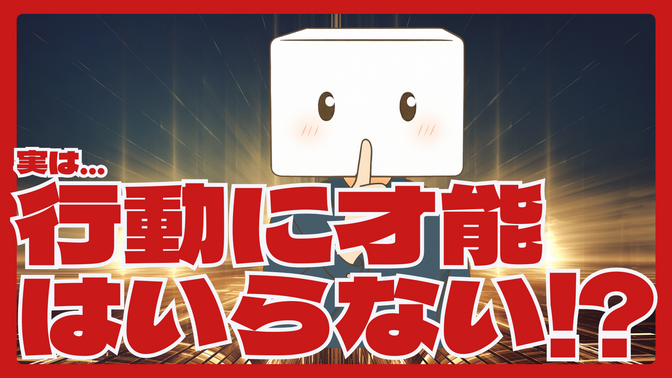
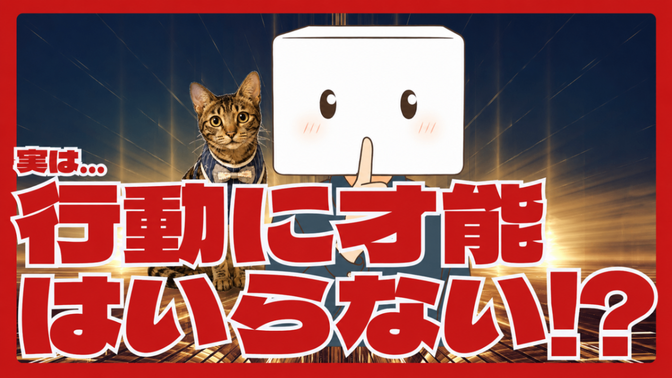
Update proactive article thumbnail and title

diff --git a/src/data/site-data.js b/src/data/site-data.js
@@ -24,7 +24,7 @@ export const siteData = {
       label: 'おすすめ',
     },
     {
-      title: '【入会2ヶ月以内】リベシティ「とうふ」の活動！よく聞かれる行動力への誤解',
+      title: '【行動力は才能じゃない】7年間動けなかった私が気づいた「小さな一歩」の力',
       description: 'リベシティ内での活動について、よく聞かれる内容をまとめた記事です。',
       url: 'https://library.libecity.com/articles/01KFMEZXF1TFQTKYTTN55KGWH7',
       thumbnail: '/images/thumb-proactive.png',
